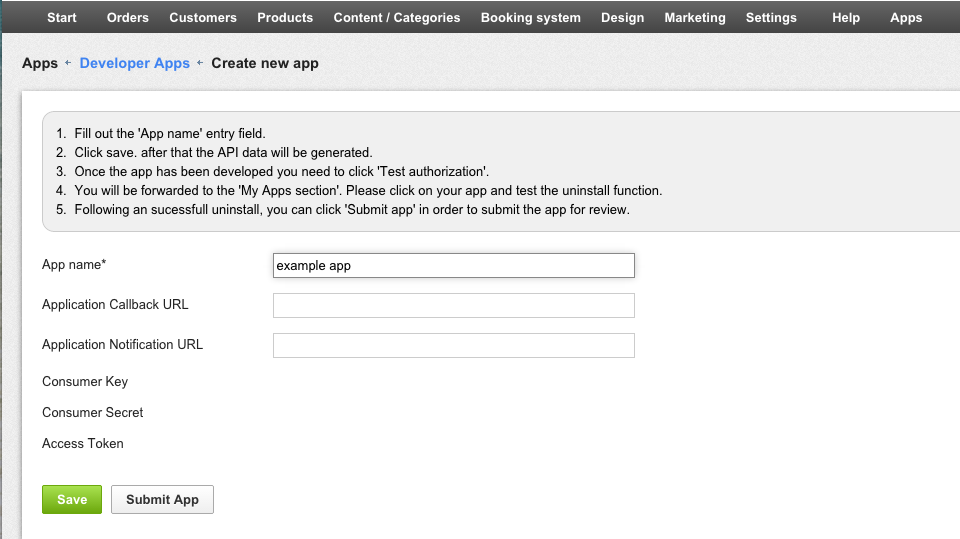
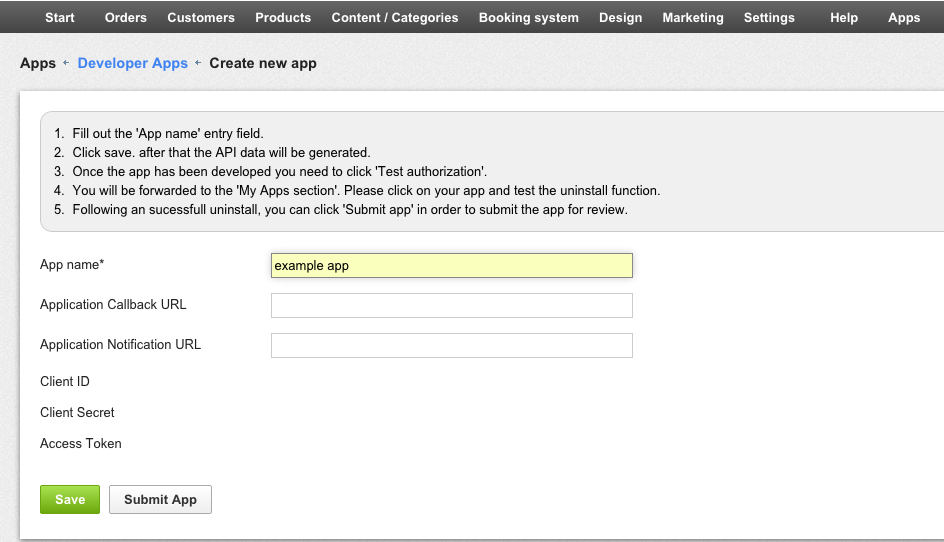
Refine create an app acc. to Pujits review, refers to AD-652

diff --git a/pages/apps/create-app.md b/pages/apps/create-app.md
@@ -4,11 +4,16 @@ key: apps-create
 title: Create an app
 ---
 
-Once you have your test shop in place, you have to create an app to get the `clientID` and `clientSecret` values.
-The `clientID` is the unique identifier for your app. You will have to use it for all requests to the API.
-The `clientSecret` is just shared between your app and ePages. You have to pass the `clientSecret` once during the [authorisation process](page:apps-install#authorisation-process). Your app uses this value to verify the signature.
+Once you have your test shop in place, you can create an app. You automatically receive a **Client ID**, **Client Secret** and **Access Token** when you create an app in your test shop.
 
-## Get your credentials
+| Value              | Description                                                                                             |
+|--------------------|---------------------------------------------------------------------------------------------------------|
+| **Client&nbsp;ID**      | The unique identifier for your app. |
+| **Client&nbsp;Secret**   | Used in combination with the **Client ID** for getting an **Access Token** during the [authorisation process](page:apps-install#authorisation-process).|
+| **Access&nbsp;Token** | The token granted from your test shop to the newly created app. You can use this token for accessing the API. [Read here for further details.](page:apps-install) |
+
+
+# Get your credentials
 
 1. Within the backoffice of your test shop, click the tab **Apps**.
     {% image click-apps.png %}{% endimage %}
@@ -20,23 +25,16 @@ The `clientSecret` is just shared between your app and ePages. You have to pass 
 4. Fill out the entry field **App name**. This field is mandatory.
     {% image fillout-app-name.png %}{% endimage %}
 
-5. Click the button **Save**. You will be assigned a unique `clientId`, `clientSecret` and `accessToken`. Remember these credentials as you will have to integrate them into the configuration files or the actual code of your application.
+5. Click the button **Save**.
+6. You will be assigned a **Client ID**, **Client Secret** and **Access Token**.
+  {% image test-shop-credentials.png %}{% endimage %}
 
 {% callout danger Important! %}
-DO NOT share your **clientSecret** with anyone!
+Store your **Client Secret** securely!
 {% endcallout %}
 
-The credentials you'll receive might look like this:
+You may want to integrate the **Client ID** and **Client Secret** into your application for the authorisation process.  Also, you are given the **Access Token** upfront without having to pass the authorisation process. This **Access Token** is granted by your test shop, so that you can start accessing the ePages API immediately.
 
-**ClientID**: e587538c751e4e05af93b6119fb249ac
+# Happy coding
 
-**ClientSecret**: sUBtJFvBEggf8OMp3Q37RHNDiMFMLUwz
-
-**AccessToken**: azFE9jsp00mz4VoqZAnoFgKYTBi20soI
-
-{% callout info Test. Test. Test. %}
-You can use these credentials now for testing purposes to access the API from your development environment.
-{% endcallout %}
-
-Once this is done, you can start coding off. You are free to use any kind of code language.
-But when developing your app, please consider our [API call limit](page:apps-api-call-limit).
+Once this is done, you can start coding away. You are free to use any kind of code language.  But when developing your app, please consider our [API call limit](page:apps-api-call-limit).
